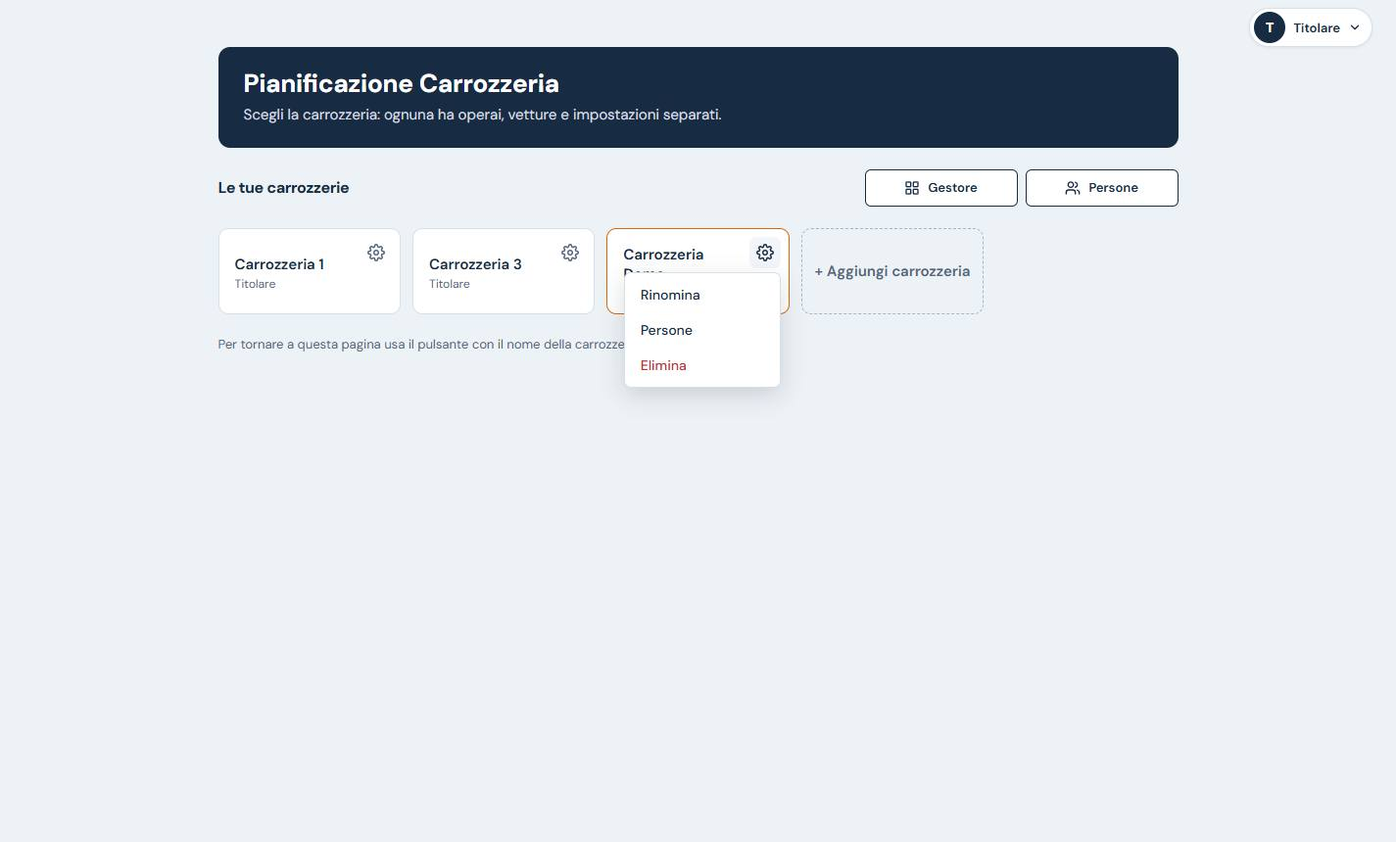
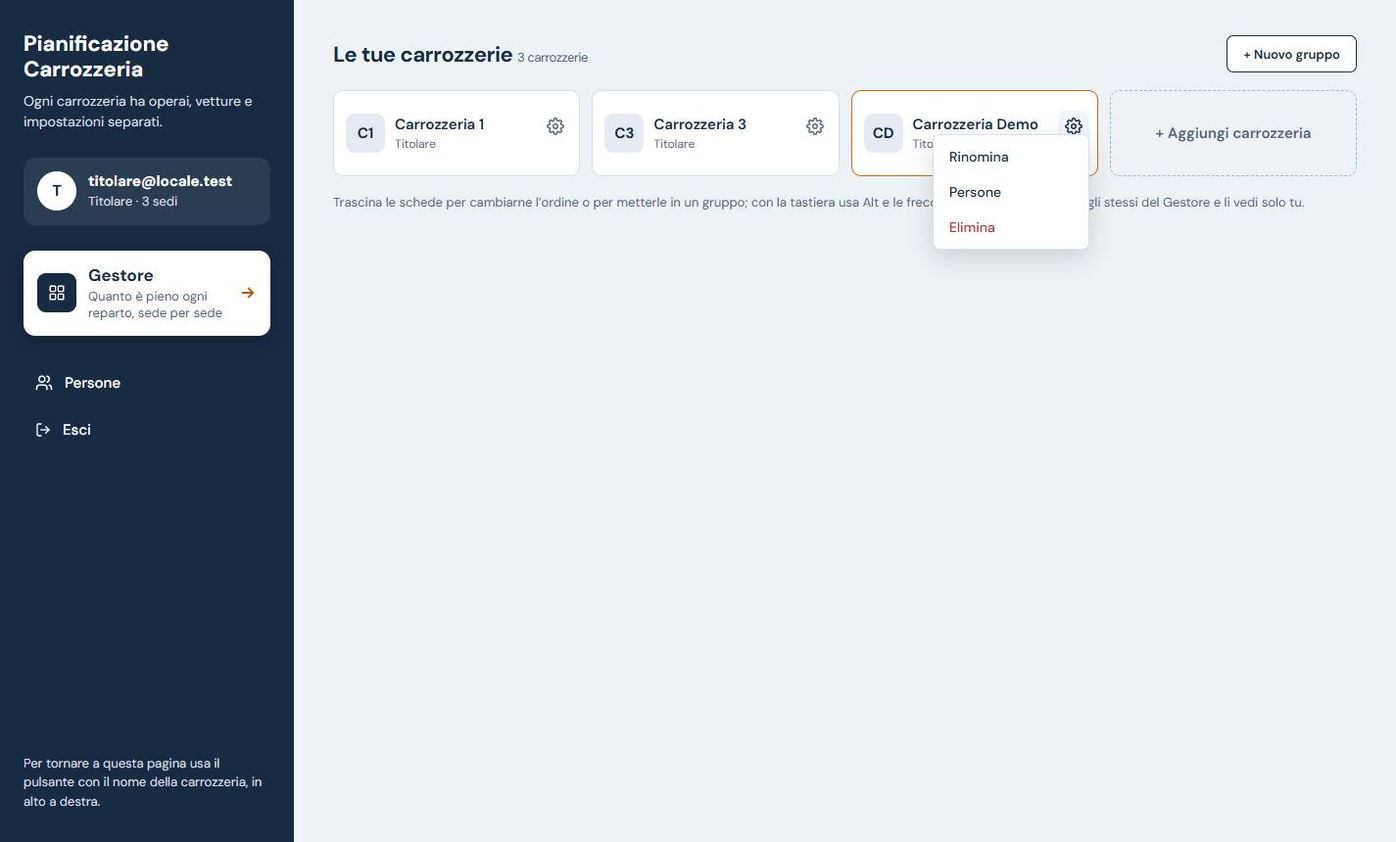
Planner 0.29.0: pagina delle carrozzerie con colonna laterale, gruppi e schede da trascinare

diff --git a/planner/accesso.js b/planner/accesso.js
@@ -34,7 +34,7 @@ const Accesso = (() => {
     gestore: 'supervisiona dal Gestore e scrive i messaggi; nella carrozzeria vede tutto, importi compresi, senza modificare'
   };
   const PW_MIN = 10;
-  const S = { utente: null, voci: [], menu: null, modifica: null, msg: '', ok: '', admin: false, nome: '', simula: '' };
+  const S = { utente: null, voci: [], menu: null, modifica: null, msg: '', ok: '', admin: false, nome: '', simula: '', gruppi: [], ordine: [], modGruppo: null, nomeGruppo: undefined, eliminate: false, annuncio: '' };
   // simulazione (2026-11-06): l'amministratore vede il planner come un altro ruolo, senza salvare; vale per la scheda del browser
   const SIMULA = 'zencar-simula';
   const simula = v => { try { if (v) sessionStorage.setItem(SIMULA, v); else sessionStorage.removeItem(SIMULA); } catch (e) { } location.reload(); };
@@ -74,6 +74,9 @@ const Accesso = (() => {
       box.addEventListener('focusout', ev => { if (ev.target.closest('[data-gs-info]')) nascondiInfo(); });
       box.addEventListener('scroll', () => nascondiInfo(), true); box.addEventListener('submit', ev => { ev.preventDefault(); if (ev.target.dataset.modoForm) inviaAccesso(ev.target); else if (ev.target.dataset.gs) inviaGestore(ev.target); });
       box.addEventListener('keydown', tasti);
+      // pagina delle carrozzerie: schede e gruppi si trascinano (2026-11-11)
+      box.addEventListener('dragstart', trascinaInizio); box.addEventListener('dragover', trascinaSopra);
+      box.addEventListener('drop', trascinaLascia); box.addEventListener('dragend', trascinaFine);
       // Gestore: dati riletti ogni 10 minuti mentre è aperto (e al ritorno su una scheda rimasta nascosta)
       const gestoreVecchio = () => box && box.querySelector('.gestore .gs-head') && !box.querySelector('.gs-form') && Date.now() - lettoGestore >= ogniGestore();
       setInterval(() => { if (document.visibilityState === 'visible' && gestoreVecchio()) apriGestore({}, true); }, 30 * 1000);
@@ -86,7 +89,7 @@ const Accesso = (() => {
   }
   /** Nome della zona per il lettore di schermo, secondo quello che mostra. */
   // dopo ogni ridisegno della pagina (che ne sostituisce il contenuto) il menu dell'account torna al suo posto
-  const vista = nome => { pagina().setAttribute('aria-label', nome); if (nome !== 'Accesso') queueMicrotask(() => mostraConto()); return box; };
+  const vista = nome => { pagina().setAttribute('aria-label', nome); box.classList.toggle('elenco', nome === 'Scegli la carrozzeria'); if (nome !== 'Accesso') queueMicrotask(() => mostraConto()); return box; };
 
   /* Gestore: riquadro con le ore della cella (blu notte come i suggerimenti «i»); il testo lo prepara il server */
   let info = null, infoDi = null;
@@ -176,9 +179,13 @@ const Accesso = (() => {
 
   /* ---------------------------------------------- elenco delle carrozzerie */
   async function caricaElenco() {
-    const [{ data, error }, adm, nome] = await Promise.all([sb.from('membri').select('ruolo, carrozzerie(id, numero, nome, eliminata_il)').eq('user_id', S.utente.id), sb.rpc('sono_amministratore'), sb.rpc('mio_nome')]);
+    const [{ data, error }, adm, nome, gruppi, ordine] = await Promise.all([sb.from('membri').select('ruolo, carrozzerie(id, numero, nome, eliminata_il)').eq('user_id', S.utente.id), sb.rpc('sono_amministratore'), sb.rpc('mio_nome'),
+      sb.from('gruppi_gestore').select('id, nome, carrozzerie').order('posizione').order('creato_il'), sb.from('ordine_carrozzerie').select('carrozzerie').maybeSingle()]);
     if (error) throw error;
     S.admin = adm.data === true; S.nome = nome.data || '';
+    // disposizione della pagina (2026-11-11): se non si legge, la pagina resta nell'ordine dei numeri e senza gruppi
+    S.gruppi = gruppi.error ? [] : (gruppi.data || []).map(g => ({ id: g.id, nome: g.nome, carrozzerie: g.carrozzerie || [] }));
+    S.ordine = ordine.error || !ordine.data ? [] : ordine.data.carrozzerie || [];
     try { const r = sessionStorage.getItem(SIMULA) || ''; S.simula = S.admin && RUOLI[r] ? r : ''; } catch (e) { S.simula = ''; }
     // consumi del piano (2026-11-10): solo l'amministratore; se la lettura non riesce la pagina resta com'è
     S.consumi = null;
@@ -199,16 +206,139 @@ const Accesso = (() => {
   }
   const GEAR = '<svg width="18" height="18" viewBox="0 0 24 24" fill="none" stroke="currentColor" stroke-width="2" stroke-linecap="round" stroke-linejoin="round" aria-hidden="true"><circle cx="12" cy="12" r="3"/><path d="M19.4 15a1.65 1.65 0 0 0 .33 1.82l.06.06a2 2 0 1 1-2.83 2.83l-.06-.06a1.65 1.65 0 0 0-1.82-.33 1.65 1.65 0 0 0-1 1.51V21a2 2 0 1 1-4 0v-.09A1.65 1.65 0 0 0 9 19.4a1.65 1.65 0 0 0-1.82.33l-.06.06a2 2 0 1 1-2.83-2.83l.06-.06A1.65 1.65 0 0 0 4.68 15a1.65 1.65 0 0 0-1.51-1H3a2 2 0 1 1 0-4h.09A1.65 1.65 0 0 0 4.6 9a1.65 1.65 0 0 0-.33-1.82l-.06-.06a2 2 0 1 1 2.83-2.83l.06.06A1.65 1.65 0 0 0 9 4.68a1.65 1.65 0 0 0 1-1.51V3a2 2 0 1 1 4 0v.09a1.65 1.65 0 0 0 1 1.51 1.65 1.65 0 0 0 1.82-.33l.06-.06a2 2 0 1 1 2.83 2.83l-.06.06A1.65 1.65 0 0 0 19.4 9a1.65 1.65 0 0 0 1.51 1H21a2 2 0 1 1 0 4h-.09a1.65 1.65 0 0 0-1.51 1z"/></svg>';
 
-  // strumenti del gruppo di sedi (2026-11-05): stessa misura, bordo blu notte, icona disegnata
+  // icone della colonna laterale e dei gruppi (strumenti dal 2026-11-05, colonna dal 2026-11-11)
   const ICONA = {
-    gestore: '<svg width="16" height="16" viewBox="0 0 24 24" fill="none" stroke="currentColor" stroke-width="2" stroke-linecap="round" stroke-linejoin="round" aria-hidden="true"><rect x="3" y="3" width="7" height="7" rx="1"/><rect x="14" y="3" width="7" height="7" rx="1"/><rect x="3" y="14" width="7" height="7" rx="1"/><rect x="14" y="14" width="7" height="7" rx="1"/></svg>',
-    persone: '<svg width="16" height="16" viewBox="0 0 24 24" fill="none" stroke="currentColor" stroke-width="2" stroke-linecap="round" stroke-linejoin="round" aria-hidden="true"><path d="M16 21v-2a4 4 0 0 0-4-4H6a4 4 0 0 0-4 4v2"/><circle cx="9" cy="7" r="4"/><path d="M22 21v-2a4 4 0 0 0-3-3.87"/><path d="M16 3.13a4 4 0 0 1 0 7.75"/></svg>'
+    gestore: '<svg width="18" height="18" viewBox="0 0 24 24" fill="none" stroke="currentColor" stroke-width="2" stroke-linecap="round" stroke-linejoin="round" aria-hidden="true"><rect x="3" y="3" width="7" height="7" rx="1"/><rect x="14" y="3" width="7" height="7" rx="1"/><rect x="3" y="14" width="7" height="7" rx="1"/><rect x="14" y="14" width="7" height="7" rx="1"/></svg>',
+    persone: '<svg width="18" height="18" viewBox="0 0 24 24" fill="none" stroke="currentColor" stroke-width="2" stroke-linecap="round" stroke-linejoin="round" aria-hidden="true"><path d="M16 21v-2a4 4 0 0 0-4-4H6a4 4 0 0 0-4 4v2"/><circle cx="9" cy="7" r="4"/><path d="M22 21v-2a4 4 0 0 0-3-3.87"/><path d="M16 3.13a4 4 0 0 1 0 7.75"/></svg>',
+    cestino: '<svg width="18" height="18" viewBox="0 0 24 24" fill="none" stroke="currentColor" stroke-width="2" stroke-linecap="round" stroke-linejoin="round" aria-hidden="true"><path d="M3 6h18M8 6V4h8v2M6 6l1 14h10l1-14"/></svg>',
+    maniglia: '<svg width="16" height="16" viewBox="0 0 24 24" fill="currentColor" aria-hidden="true"><circle cx="9" cy="6" r="1.6"/><circle cx="15" cy="6" r="1.6"/><circle cx="9" cy="12" r="1.6"/><circle cx="15" cy="12" r="1.6"/><circle cx="9" cy="18" r="1.6"/><circle cx="15" cy="18" r="1.6"/></svg>'
   };
-  function strumenti() {
-    const b = [];
-    if (vedeGestore()) b.push(`<button type="button" class="lstr" data-gestore="1">${ICONA.gestore}Gestore</button>`);
+  // iniziali della carrozzeria nel quadratino della scheda: «Novi Ligure» → NL, «Carrozzeria 1» → C1
+  const sigla = nome => { const p = String(nome).trim().split(/\s+/).filter(Boolean); return (p.length > 1 ? p[0][0] + p[1][0] : (p[0] || '?').slice(0, 2)).toUpperCase(); };
+  const quante = n => n + (n === 1 ? ' carrozzeria' : ' carrozzerie');
+  /** Colonna blu notte a sinistra (proposta C scelta dal titolare il 2026-11-11): chi è entrato, strumenti, Esci. */
+  function laterale(gone) {
+    const email = S.utente.email || '', chi = chiSono(), b = [];
+    // il Gestore in evidenza (proposta F, 2026-11-11): riquadro bianco sul fondo blu notte, con una riga di spiegazione
+    const gestore = vedeGestore() ? `<button type="button" class="lges" data-gestore="1"><span class="lges-i">${ICONA.gestore}</span><b>Gestore</b>
+      <svg class="lges-f" width="18" height="18" viewBox="0 0 24 24" fill="none" stroke="currentColor" stroke-width="2.4" stroke-linecap="round" stroke-linejoin="round" aria-hidden="true"><path d="M5 12h14M13 6l6 6-6 6"/></svg>
+      <span class="lges-s">Quanto è pieno ogni reparto, sede per sede</span></button>` : '';
     if (sediMie().length) b.push(`<button type="button" class="lstr" data-persone="1">${ICONA.persone}Persone</button>`);
-    return b.length ? `<span class="lbtn">${b.join('')}</span>` : '';
+    if (gone.length) b.push(`<button type="button" class="lstr" data-eliminate="1" aria-expanded="${!!S.eliminate}">${ICONA.cestino}Carrozzerie eliminate (${gone.length})</button>`);
+    b.push(`<button type="button" class="lstr" data-esci="1">${ESCI}Esci</button>`);
+    return `<aside class="lside" aria-label="Account e strumenti">
+      <div class="lside-tit"><h1>Pianificazione Carrozzeria</h1><p>Ogni carrozzeria ha operai, vetture e impostazioni separati.</p></div>
+      <div class="lside-chi" title="${esc(email)}"><span class="conto-ini grande" aria-hidden="true">${esc((S.nome || email).charAt(0).toUpperCase())}</span>
+        <span><b>${esc(S.nome || email)}</b><span>${esc(chi.ruolo)} · ${esc(chi.dove)}</span></span></div>
+      ${gestore}<nav class="lside-nav" aria-label="Strumenti">${b.join('')}</nav>
+      <p class="lside-nota">Per tornare a questa pagina usa il pulsante con il nome della carrozzeria, in alto a destra.</p></aside>`;
+  }
+
+  /* ---------------------------------------------- disposizione (2026-11-11): l'utente ordina le carrozzerie trascinandole e le
+     raccoglie in gruppi, gli stessi del Gestore. Si salva per utente (salva_disposizione); le altre persone non vedono cambi. */
+  /** Gruppi e carrozzerie senza gruppo, nell'ordine scelto. Ogni carrozzeria compare una sola volta. */
+  function disposizione() {
+    const vivi = new Map(vive().map(s => [s.id, s])), usate = new Set();
+    const gruppi = S.gruppi.map(g => ({ id: g.id, nome: g.nome, voci: g.carrozzerie.filter(id => vivi.has(id) && !usate.has(id) && usate.add(id)).map(id => vivi.get(id)) }));
+    const pos = id => { const i = S.ordine.indexOf(id); return i < 0 ? 1e9 : i; };
+    const sciolte = vive().filter(s => !usate.has(s.id)).map((s, i) => [s, i]).sort((a, b) => pos(a[0].id) - pos(b[0].id) || a[1] - b[1]).map(x => x[0]);
+    return { gruppi, sciolte };
+  }
+  // le liste della pagina, dall'alto: un elenco di carrozzerie per gruppo e per ultimo quelle senza gruppo (id '')
+  const liste = () => { const d = disposizione(); return [...d.gruppi.map(g => ({ id: g.id, ids: g.voci.map(s => s.id) })), { id: '', ids: d.sciolte.map(s => s.id) }]; };
+  /** Dopo uno spostamento la pagina cambia subito; il database si aggiorna in un solo passaggio. */
+  function salvaDisposizione(L, fuoco, annuncio) {
+    const vivi = new Set(vive().map(s => s.id));
+    // le carrozzerie eliminate restano nel loro gruppo: se si ripristinano tornano al loro posto
+    S.gruppi = L.filter(l => l.id).map(l => { const g = S.gruppi.find(x => x.id === l.id); return g && Object.assign(g, { carrozzerie: l.ids.concat(g.carrozzerie.filter(id => !vivi.has(id))) }); }).filter(Boolean);
+    S.ordine = L.find(l => !l.id).ids;
+    S.msg = ''; S.ok = ''; S.annuncio = annuncio || '';
+    mostraElenco(fuoco);
+    sb.rpc('salva_disposizione', { gruppi: S.gruppi.map(g => ({ id: g.id, carrozzerie: g.carrozzerie })), sciolte: S.ordine })
+      .then(({ error }) => { if (error) throw error; })
+      .catch(async e => { console.error('[carrozzerie] disposizione', e); await aggiorna(); S.msg = 'Spostamento non salvato: riprova.'; mostraElenco(); });
+  }
+  const nomeDi = id => (voce(id) || {}).nome || '';
+  const nomeLista = id => id ? 'nel gruppo ' + ((S.gruppi.find(g => g.id === id) || {}).nome || '') : 'tra le carrozzerie senza gruppo';
+  /** Mette la carrozzeria nella lista del gruppo, prima o dopo la scheda di riferimento (senza riferimento: in fondo). */
+  function spostaCarrozzeria(id, gruppo, accanto, dopo) {
+    const L = liste(); for (const l of L) l.ids = l.ids.filter(x => x !== id);
+    const l = L.find(x => x.id === gruppo); if (!l) return;
+    const r = accanto ? l.ids.indexOf(accanto) : -1;
+    l.ids.splice(r < 0 ? l.ids.length : r + (dopo ? 1 : 0), 0, id);
+    salvaDisposizione(L, `[data-carr="${id}"] .lopen`, nomeDi(id) + ' spostata ' + nomeLista(gruppo) + '.');
+  }
+  /** Con la tastiera (Alt + frecce sul nome): ±1 un posto avanti o indietro, ±2 nel gruppo dopo o prima. */
+  function spostaConTasti(id, passo) {
+    const L = liste(), li = L.findIndex(l => l.ids.includes(id)); if (li < 0) return;
+    const l = L[li], i = l.ids.indexOf(id); l.ids.splice(i, 1);
+    if (passo === -1 && i > 0) l.ids.splice(i - 1, 0, id);
+    else if (passo === 1 && i < l.ids.length) l.ids.splice(i + 1, 0, id);
+    else if (passo < 0 && li > 0) L[li - 1].ids.push(id);
+    else if (passo > 0 && li < L.length - 1) L[li + 1].ids.unshift(id);
+    else return;
+    const dove = L.find(x => x.ids.includes(id));
+    salvaDisposizione(L, `[data-carr="${id}"] .lopen`, nomeDi(id) + ': posto ' + (dove.ids.indexOf(id) + 1) + ' di ' + dove.ids.length + ' ' + nomeLista(dove.id) + '.');
+  }
+  /** Sposta un gruppo prima o dopo un altro; le carrozzerie senza gruppo restano sempre in fondo. */
+  function spostaGruppo(id, accanto, dopo) {
+    const L = liste(), g = L.find(l => l.id === id); if (!g) return;
+    const altriGruppi = L.filter(l => l !== g), sciolte = altriGruppi.pop();
+    let i = altriGruppi.findIndex(l => l.id === accanto); i = i < 0 ? altriGruppi.length : i + (dopo ? 1 : 0);
+    altriGruppi.splice(i, 0, g);
+    salvaDisposizione([...altriGruppi, sciolte], `[data-gmuovi="${id}"]`, 'Gruppo spostato: posto ' + (i + 1) + ' di ' + altriGruppi.length + '.');
+  }
+
+  // trascinamento con il mouse: presa = { tipo: 'c' (carrozzeria) | 'g' (gruppo), id }
+  let presa = null;
+  const SEGNI = ['drop-prima', 'drop-dopo', 'drop-dentro', 'drop-sopra', 'drop-sotto'];
+  function segno(el, cls) {
+    for (const x of box.querySelectorAll('.' + SEGNI.join(',.'))) if (x !== el) x.classList.remove(...SEGNI);
+    if (el && !el.classList.contains(cls)) { el.classList.remove(...SEGNI); el.classList.add(cls); }
+  }
+  /** Dove cadrebbe ciò che si trascina: { el (da segnare), cls, gruppo, accanto }; el null = sopra se stesso, nessun effetto. */
+  function bersaglio(ev) {
+    const t = ev.target && ev.target.closest ? ev.target : ev.target && ev.target.parentElement; if (!presa || !t) return null;
+    if (presa.tipo === 'c') {
+      const c = t.closest('.lcardi[data-carr]');
+      if (c && c.dataset.carr === presa.id) return { el: null };
+      if (c) { const r = c.getBoundingClientRect(); return { el: c, cls: ev.clientX > r.left + r.width / 2 ? 'drop-dopo' : 'drop-prima', gruppo: c.closest('[data-zona]').dataset.zona, accanto: c.dataset.carr }; }
+      const z = t.closest('.lgruppo[data-gruppo]');
+      return z ? { el: z.querySelector('[data-zona]'), cls: 'drop-dentro', gruppo: z.dataset.gruppo, accanto: '' } : null;
+    }
+    const s = t.closest('.lgruppo[data-gruppo]:not(.sciolte)'); if (!s) return null;
+    if (s.dataset.gruppo === presa.id) return { el: null };
+    const r = s.getBoundingClientRect(); return { el: s, cls: ev.clientY > r.top + r.height / 2 ? 'drop-sotto' : 'drop-sopra', accanto: s.dataset.gruppo };
+  }
+  function trascinaInizio(ev) {
+    const g = ev.target.closest && ev.target.closest('[data-gtrascina]'), c = !g && ev.target.closest && ev.target.closest('.lcardi[data-carr][draggable="true"]');
+    if (!g && !c) return;
+    presa = g ? { tipo: 'g', id: g.dataset.gtrascina } : { tipo: 'c', id: c.dataset.carr };
+    ev.dataTransfer.effectAllowed = 'move'; try { ev.dataTransfer.setData('text/plain', g ? 'gruppo' : nomeDi(presa.id)); } catch (e) { }
+    const el = g ? g.closest('.lgruppo') : c; requestAnimationFrame(() => el.classList.add('presa'));
+  }
+  function trascinaSopra(ev) { const b = bersaglio(ev); if (!b) return presa && segno(null); ev.preventDefault(); ev.dataTransfer.dropEffect = 'move'; segno(b.el, b.cls); }
+  function trascinaLascia(ev) {
+    const b = bersaglio(ev), p = presa; if (!b) return;
+    ev.preventDefault(); trascinaFine();
+    if (!b.el) return;
+    if (p.tipo === 'c') spostaCarrozzeria(p.id, b.gruppo, b.accanto, b.cls === 'drop-dopo');
+    else spostaGruppo(p.id, b.accanto, b.cls === 'drop-sotto');
+  }
+  function trascinaFine() { presa = null; if (!box) return; segno(null); for (const x of box.querySelectorAll('.presa')) x.classList.remove('presa'); }
+
+  /** Nuovo gruppo o nome cambiato: lo stesso salvataggio del Gestore (salva_gruppo_gestore). */
+  async function salvaGruppo(id) {
+    const inp = box.querySelector(`[data-gedit="${id}"]`), nome = (inp ? inp.value : '').trim().replace(/\s+/g, ' ');
+    S.nomeGruppo = inp ? inp.value : '';
+    const err = !nome ? 'Scrivi il nome del gruppo.' : nome.length > 60 ? 'Il nome può avere al massimo 60 caratteri.'
+      : S.gruppi.some(g => g.id !== id && g.nome.toLowerCase() === nome.toLowerCase()) ? 'Hai già un gruppo con questo nome.' : '';
+    if (err) { S.msg = err; S.ok = ''; return mostraElenco(`[data-gedit="${id}"]`); }
+    const g = S.gruppi.find(x => x.id === id);
+    try {
+      const { error } = await sb.rpc('salva_gruppo_gestore', { g: g ? g.id : null, nome, scelte: g ? g.carrozzerie : [] }); if (error) throw error;
+      await aggiorna('', g ? `[data-gmuovi="${g.id}"]` : '');
+    } catch (e) { S.msg = testoErrore(e); S.ok = ''; mostraElenco(`[data-gedit="${id}"]`); }
   }
   /** Consumi del mese rispetto al piano gratuito di Supabase: numeri, percentuali e avviso arrivano già pronti dal database. */
   function consumiHtml() {
@@ -226,35 +356,51 @@ const Accesso = (() => {
     const last = ultima();
     const modifica = (id, nome) => `<div class="lcardi editing"><input type="text" maxlength="60" value="${esc(nome)}" data-edit="${id}" aria-label="Nome della carrozzeria">
       <div class="lact"><button type="button" class="pri" data-save="${id}">Salva</button><button type="button" data-cancel="1">Annulla</button></div></div>`;
+    const spostabili = vive().length > 1;
     const card = s => {
       if (S.modifica === s.id) return modifica(s.id, s.nome);
       const menu = S.menu === s.id ? `<div class="lmenu" role="menu"><button type="button" role="menuitem" data-ren="${s.id}">Rinomina</button>
         <button type="button" role="menuitem" data-utenti="${s.id}">Persone</button><button type="button" role="menuitem" class="del" data-del="${s.id}">Elimina</button></div>` : '';
-      return `<div class="lcardi${s.id === last ? ' last' : ''}"><button type="button" class="lopen" data-sede="${s.id}" title="${esc(s.nome)}"><span class="lnome">${esc(s.nome)}</span><small>${esc(S.admin ? 'Amministratore' : RUOLI[s.ruolo])}${s.id === last ? ' · Ultima usata' : ''}</small></button>
+      return `<div class="lcardi${s.id === last ? ' last' : ''}" data-carr="${s.id}" draggable="${spostabili}"><button type="button" class="lopen" data-sede="${s.id}" title="${esc(s.nome)}"${spostabili ? ' aria-describedby="lcome"' : ''}>
+        <span class="lsigla" aria-hidden="true">${esc(sigla(s.nome))}</span><span class="ltesto"><span class="lnome">${esc(s.nome)}</span><small>${esc(S.admin ? 'Amministratore' : RUOLI[s.ruolo])}${s.id === last ? ' · Ultima usata' : ''}</small></span></button>
         ${titolareDi(s) ? `<button type="button" class="lgear" data-menu="${s.id}" aria-haspopup="menu" aria-expanded="${S.menu === s.id}" aria-label="Impostazioni di ${esc(s.nome)}" title="Impostazioni">${GEAR}</button>${menu}` : ''}</div>`;
     };
-    const puoAggiungere = piuSedi();
-    const nuova = S.modifica === 'nuova' ? modifica('nuova', 'Carrozzeria ' + (vive().length + 1)) : (puoAggiungere ? '<button type="button" class="ladd" data-add="1">+ Aggiungi carrozzeria</button>' : '');
-    const gone = S.voci.filter(s => s.eliminata_il && titolareDi(s));
-    return `<div class="lcard"><div class="lhead"><h1>Pianificazione Carrozzeria</h1><p>Scegli la carrozzeria: ognuna ha operai, vetture e impostazioni separati.</p></div>
-      <div class="lbar"><h2 class="ltit">Le tue carrozzerie</h2>${strumenti()}</div>
-      ${S.msg ? `<p class="lerr" role="alert">${esc(S.msg)}</p>` : ''}${S.ok ? `<p class="lok" role="status">${esc(S.ok)}</p>` : ''}${consumiHtml()}
-      ${vive().length || nuova ? `<div class="lgrid">${vive().map(card).join('')}${nuova}</div>`
+    const nomeGruppo = (id, nome) => `<header class="lgh editing"><input type="text" maxlength="60" value="${esc(S.nomeGruppo ?? nome)}" data-gedit="${id}" aria-label="Nome del gruppo" placeholder="Per esempio: Zona nord">
+      <button type="button" class="pri" data-gsalva="${id}">Salva</button><button type="button" data-gannulla="1">Annulla</button></header>`;
+    const gruppo = (g, voci) => `<section class="lgruppo" data-gruppo="${g.id}" aria-label="Gruppo ${esc(g.nome)}">
+      ${S.modGruppo === g.id ? nomeGruppo(g.id, g.nome) : `<header class="lgh" draggable="true" data-gtrascina="${g.id}"><button type="button" class="lmaniglia" data-gmuovi="${g.id}" aria-label="Sposta il gruppo ${esc(g.nome)}" aria-describedby="lcome" title="Trascina per spostare il gruppo">${ICONA.maniglia}</button>
+        <h3>${esc(g.nome)}</h3><span class="lconta">${quante(voci.length)}</span>
+        <span class="lgaz"><button type="button" data-grin="${g.id}">Rinomina</button><button type="button" class="del" data-gdel="${g.id}">Elimina il gruppo</button></span></header>`}
+      <div class="lgrid" data-zona="${g.id}">${voci.map(card).join('') || '<p class="lvuoto">Trascina qui le carrozzerie del gruppo.</p>'}</div></section>`;
+    const nuova = S.modifica === 'nuova' ? modifica('nuova', 'Carrozzeria ' + (vive().length + 1)) : (piuSedi() ? '<button type="button" class="ladd" data-add="1">+ Aggiungi carrozzeria</button>' : '');
+    const gone = S.voci.filter(s => s.eliminata_il && titolareDi(s)), d = disposizione();
+    const sciolte = `<section class="lgruppo sciolte" data-gruppo="" aria-label="${d.gruppi.length ? 'Carrozzerie senza gruppo' : 'Carrozzerie'}">
+      ${d.gruppi.length ? `<header class="lgh"><h3>Senza gruppo</h3><span class="lconta">${quante(d.sciolte.length)}</span></header>` : ''}
+      <div class="lgrid" data-zona="">${d.sciolte.map(card).join('')}${d.gruppi.length && !d.sciolte.length ? '<p class="lvuoto">Trascina qui una carrozzeria per toglierla dal suo gruppo.</p>' : ''}${nuova}</div></section>`;
+    const nuovoGruppo = S.modGruppo === 'nuovo' ? `<section class="lgruppo" data-gruppo="nuovo" aria-label="Nuovo gruppo">${nomeGruppo('nuovo', '')}<p class="lvuoto">Dopo il salvataggio trascina qui le carrozzerie del gruppo.</p></section>` : '';
+    return `<div class="lpag">${laterale(gone)}<main class="lmain">
+      <div class="lbar"><h2 class="ltit">Le tue carrozzerie <span class="lconta">${quante(vive().length)}</span></h2>
+        ${spostabili ? '<button type="button" class="lnuovo" data-gnuovo="1">+ Nuovo gruppo</button>' : ''}</div>
+      ${S.msg ? `<p class="lerr" role="alert">${esc(S.msg)}</p>` : ''}${S.ok ? `<p class="lok" role="status">${esc(S.ok)}</p>` : ''}<p class="lnasc" role="status">${esc(S.annuncio || '')}</p>${consumiHtml()}
+      ${gone.length && S.eliminate ? `<section class="lgone" aria-labelledby="lgoneTit"><h3 id="lgoneTit" tabindex="-1">Carrozzerie eliminate (${gone.length})</h3><p class="lnote">Restano recuperabili finché non le elimini definitivamente.</p>
+        ${gone.map(s => `<div class="lgrow"><span>${esc(s.nome)}</span><button type="button" data-restore="${s.id}">Ripristina</button><button type="button" class="del" data-wipe="${s.id}">Elimina definitivamente</button></div>`).join('')}</section>` : ''}
+      ${vive().length || nuova ? d.gruppi.map(g => gruppo(g, g.voci)).join('') + nuovoGruppo + sciolte
         : '<p class="lnote">Non hai ancora accesso a nessuna carrozzeria: chiedi al titolare di aggiungerti.</p>'}
-      ${gone.length ? `<details class="lgone"><summary>Carrozzerie eliminate (${gone.length})</summary><p class="lnote">Restano recuperabili finché non le elimini definitivamente.</p>
-        ${gone.map(s => `<div class="lgrow"><span>${esc(s.nome)}</span><button type="button" data-restore="${s.id}">Ripristina</button><button type="button" class="del" data-wipe="${s.id}">Elimina definitivamente</button></div>`).join('')}</details>` : ''}
-      <p class="lnote">Per tornare a questa pagina usa il pulsante con il nome della carrozzeria, in alto a destra.</p></div>`;
+      ${spostabili ? '<p class="lnote" id="lcome">Trascina le schede per cambiarne l’ordine o per metterle in un gruppo; con la tastiera usa Alt e le frecce sul nome. I gruppi sono gli stessi del Gestore e li vedi solo tu.</p>' : ''}
+      </main></div>`;
   }
   function mostraElenco(focusSel) {
     nascondiInfo();
+    const y = box ? box.scrollTop : 0;
     vista('Scegli la carrozzeria').innerHTML = landingHtml();
-    const f = (focusSel && box.querySelector(focusSel)) || box.querySelector('[data-edit]') || box.querySelector('.last .lopen') || box.querySelector('.lopen');
-    if (f) { f.focus(); if (f.matches('input')) f.select(); }
+    box.scrollTop = y;
+    const f = (focusSel && box.querySelector(focusSel)) || box.querySelector('[data-edit], [data-gedit]') || box.querySelector('.last .lopen') || box.querySelector('.lopen');
+    if (f) { f.focus({ preventScroll: true }); if (focusSel) f.scrollIntoView({ block: 'nearest' }); if (f.matches('input')) f.select(); }
   }
-  async function aggiorna(ok = '') {
-    S.menu = null; S.modifica = null; S.ok = ok;
+  async function aggiorna(ok = '', fuoco = '') {
+    S.menu = null; S.modifica = null; S.modGruppo = null; S.nomeGruppo = undefined; S.annuncio = ''; S.ok = ok;
     try { await caricaElenco(); S.msg = ''; } catch (e) { S.msg = testoErrore(e); }
-    mostraElenco();
+    mostraElenco(fuoco);
   }
   async function salvaNome(id) {
     const inp = box.querySelector(`[data-edit="${id}"]`);
@@ -279,7 +425,14 @@ const Accesso = (() => {
     if (t.dataset.gs) { if (t.dataset.gsConferma && !confirm(t.dataset.gsConferma)) return; return apriGestore({ azione: t.dataset.gs, id: t.dataset.gsId || '' }); }
     if (t.dataset.gsChiudi) return mostraElenco('[data-gestore]');
     if (t.dataset.gsApri) { const g = t.closest('[data-gs-gruppo]'), parte = t.dataset.gsApri; if (g && aperti[parte]) { aperti[parte][g.dataset.gsGruppo] = !g.classList.contains('apri-' + parte); salvaAperti(); mostraAperti(); } return; }
-    S.msg = ''; S.ok = '';
+    S.msg = ''; S.ok = ''; S.annuncio = '';
+    if (t.dataset.esci) { try { sessionStorage.removeItem(SIMULA); } catch (e) { } try { history.replaceState(null, '', location.pathname + location.search); } catch (e) { } await sb.auth.signOut(); return location.reload(); }
+    if (t.dataset.eliminate) { S.eliminate = !S.eliminate; return mostraElenco(S.eliminate ? '#lgoneTit' : '[data-eliminate]'); }
+    if (t.dataset.gnuovo) { S.modGruppo = 'nuovo'; S.nomeGruppo = undefined; return mostraElenco('[data-gedit]'); }
+    if (t.dataset.grin) { S.modGruppo = t.dataset.grin; S.nomeGruppo = undefined; return mostraElenco('[data-gedit]'); }
+    if (t.dataset.gannulla) { const id = S.modGruppo; S.modGruppo = null; S.nomeGruppo = undefined; return mostraElenco(id && id !== 'nuovo' ? `[data-gmuovi="${id}"]` : '[data-gnuovo]'); }
+    if (t.dataset.gsalva) return salvaGruppo(t.dataset.gsalva);
+    if (t.dataset.gmuovi) return; // la maniglia si trascina, o si sposta con Alt e le frecce
     if (t.dataset.menu) { const id = t.dataset.menu; S.menu = S.menu === id ? null : id; return mostraElenco(S.menu ? `.lmenu [data-ren="${id}"]` : `[data-menu="${id}"]`); }
     S.menu = null;
     if (t.dataset.sede) return apri(t.dataset.sede);
@@ -290,6 +443,12 @@ const Accesso = (() => {
     if (t.dataset.utenti) return apriPersone(t.dataset.utenti); // dall'ingranaggio: la finestra Persone filtrata su quella sede
     if (t.dataset.persone) return apriPersone();
     try {
+      if (t.dataset.gdel) {
+        const g = S.gruppi.find(x => x.id === t.dataset.gdel);
+        if (!g || !confirm('Eliminare il gruppo «' + g.nome + '»? Le carrozzerie restano: passano tra quelle senza gruppo. Il gruppo sparisce anche dal Gestore.')) return mostraElenco(`[data-gdel="${t.dataset.gdel}"]`);
+        const { error } = await sb.from('gruppi_gestore').delete().eq('id', g.id); if (error) throw error;
+        return aggiorna('', '[data-gnuovo]');
+      }
       if (t.dataset.del) {
         const s = voce(t.dataset.del);
         if (!confirm('Eliminare ' + s.nome + '? Sparisce dall’elenco, ma i suoi dati restano recuperabili da «Carrozzerie eliminate».')) return mostraElenco();
@@ -314,6 +473,17 @@ const Accesso = (() => {
     if (ev.target.matches && ev.target.matches('[data-edit]')) {
       if (ev.key === 'Enter') { ev.preventDefault(); salvaNome(ev.target.dataset.edit); }
       if (ev.key === 'Escape') { ev.preventDefault(); S.modifica = null; mostraElenco(); }
+    } else if (ev.target.matches && ev.target.matches('[data-gedit]')) {
+      if (ev.key === 'Enter') { ev.preventDefault(); salvaGruppo(ev.target.dataset.gedit); }
+      if (ev.key === 'Escape') { ev.preventDefault(); box.querySelector('[data-gannulla]').click(); }
+    } else if (ev.altKey && /^Arrow(Left|Right|Up|Down)$/.test(ev.key) && ev.target.matches && ev.target.matches('.lopen[aria-describedby], [data-gmuovi]')) {
+      // spostamenti con la tastiera: sul nome della carrozzeria ←→ un posto, ↑↓ nel gruppo prima o dopo; sulla maniglia ↑↓ il gruppo
+      ev.preventDefault();
+      const avanti = ev.key === 'ArrowRight' || ev.key === 'ArrowDown', g = ev.target.dataset.gmuovi;
+      if (g) {
+        const gruppiPag = liste().filter(l => l.id), i = gruppiPag.findIndex(l => l.id === g), j = i + (avanti ? 1 : -1);
+        if (i >= 0 && j >= 0 && j < gruppiPag.length) spostaGruppo(g, gruppiPag[j].id, avanti);
+      } else spostaConTasti(ev.target.dataset.sede, (avanti ? 1 : -1) * (/Up|Down/.test(ev.key) ? 2 : 1));
     } else if (ev.key === 'Escape' && S.menu) { const id = S.menu; S.menu = null; mostraElenco(`[data-menu="${id}"]`); }
     ev.stopPropagation(); // le scorciatoie del planning restano spente
   }

diff --git a/planner/accesso.css b/planner/accesso.css
@@ -430,3 +430,85 @@ body.con-planner .conto-btn.simula .conto-torna, body.con-planner .conto-btn.sim
 /* tabellone dell'officina (2026-11-11): la parte disegnata dal server copre tutto lo schermo */
 body.vista-tabellone { overflow: hidden; background: #0d1a2a; }
 body.vista-tabellone > header.top, body.vista-tabellone > #main { display: none; }
+
+/* Pagina delle carrozzerie (2026-11-11, proposta C scelta dal titolare): colonna blu notte a sinistra con chi è entrato e gli
+   strumenti; a destra le carrozzerie, in gruppi (gli stessi del Gestore), da spostare trascinandole. Il menu dell'account
+   in alto a destra qui non serve: nome, ruolo ed Esci stanno nella colonna. */
+#landing.elenco { display: block; padding: 0; }
+#landing.elenco #conto { display: none; }
+#landing .lpag { display: flex; flex-wrap: wrap; min-height: 100%; }
+#landing .lside { flex: 0 0 300px; box-sizing: border-box; position: sticky; top: 0; height: 100vh; overflow-y: auto; display: flex; flex-direction: column; gap: 26px; padding: 32px 24px; background: var(--navy); color: #fff; }
+#landing .lside-tit h1 { margin: 0; font: 700 22px/1.2 var(--f, system-ui); color: #fff; }
+#landing .lside-tit p { margin: 8px 0 0; font-size: 14px; line-height: 1.5; color: #d9dde1; }
+#landing .lside-chi { display: flex; align-items: center; gap: 12px; padding: 14px; border-radius: 12px; background: #ffffff14; }
+#landing .lside-chi .conto-ini { background: #fff; color: var(--navy); }
+#landing .lside-chi > span:last-child { display: grid; gap: 2px; min-width: 0; }
+#landing .lside-chi b { font: 700 15px var(--f, system-ui); overflow: hidden; text-overflow: ellipsis; white-space: nowrap; }
+#landing .lside-chi b + span { font-size: 13px; color: #d9dde1; }
+#landing .lside-nav { display: grid; gap: 4px; }
+/* il Gestore in evidenza (proposta F, 2026-11-11): riquadro bianco con icona, titolo, spiegazione e freccia arancione */
+#landing .lges { display: grid; grid-template-columns: 40px 1fr 18px; align-items: center; gap: 2px 12px; width: 100%; padding: 14px; border: 0; border-radius: 12px; background: var(--surface); color: var(--ink); text-align: left; cursor: pointer; box-shadow: 0 6px 18px #00000030; }
+#landing .lges:hover { background: var(--tape-soft); }
+#landing .lges:focus-visible { outline: 3px solid var(--tape-chiaro); outline-offset: 3px; }
+#landing .lges-i { grid-row: span 2; width: 40px; height: 40px; display: flex; align-items: center; justify-content: center; border-radius: 9px; background: var(--navy); color: #fff; }
+#landing .lges b { font: 700 17px var(--f, system-ui); }
+#landing .lges-f { grid-row: span 2; color: var(--tape); }
+#landing .lges-s { font-size: 13px; line-height: 1.35; color: var(--muted); }
+#landing .lside .lstr { justify-content: flex-start; gap: 12px; width: 100%; min-width: 0; height: 44px; padding: 0 12px; border: 0; border-radius: 8px; background: transparent; color: #fff; font: 500 15px var(--f, system-ui); text-align: left; }
+#landing .lside .lstr:hover { background: #ffffff17; }
+#landing .lside .lstr[aria-expanded="true"] { background: #ffffff24; }
+#landing .lside-nota { margin: auto 0 0; font-size: 13px; line-height: 1.5; color: #d9dde1; }
+#landing .lmain { flex: 999 1 560px; min-width: 0; max-width: 1240px; box-sizing: border-box; padding: 36px 40px 56px; display: grid; gap: 18px; align-content: start; container-type: inline-size; }
+#landing .lmain .lbar .ltit { font-size: 22px; }
+#landing .lconta { font-size: 13px; font-weight: 400; color: var(--muted); }
+#landing .lnuovo { height: 38px; padding: 0 16px; border: 1px solid var(--navy); border-radius: 7px; background: var(--surface); color: var(--navy); font: 600 13px var(--f, system-ui); cursor: pointer; }
+#landing .lnuovo:hover { background: color-mix(in srgb, var(--navy) 7%, var(--surface)); }
+#landing .lnuovo:focus-visible, #landing .lmaniglia:focus-visible, #landing .lgh button:focus-visible { outline: 3px solid var(--tape-chiaro); outline-offset: 2px; }
+#landing .lnasc { position: absolute; width: 1px; height: 1px; overflow: hidden; clip: rect(0 0 0 0); white-space: nowrap; margin: 0; }
+/* un gruppo è una zona grigio-azzurra (niente bordo: le schede bianche ci stanno dentro) */
+#landing .lgruppo { display: grid; gap: 12px; padding: 12px 14px 14px; border-radius: 14px; background: var(--grid); transition: box-shadow .12s; }
+#landing .lgruppo.sciolte:not(:has(.lgh)) { padding: 0; background: none; }
+#landing .lgh { display: flex; flex-wrap: wrap; align-items: center; gap: 6px 10px; min-height: 36px; }
+#landing .lgh[draggable="true"] { cursor: grab; }
+#landing .lgh h3 { margin: 0; padding: 7px 14px; border-radius: 7px; background: var(--navy); color: #fff; font: 700 15px/1.2 var(--f, system-ui); }
+/* «Senza gruppo» non è un gruppo creato: etichetta solo bordata */
+#landing .sciolte .lgh h3 { padding: 6px 13px; border: 1px solid var(--navy); background: none; color: var(--navy); }
+#landing .lgaz { margin-left: auto; display: flex; gap: 6px; }
+#landing .lgh button:not(.lmaniglia) { height: 32px; padding: 0 12px; border: 1px solid var(--line); border-radius: 6px; background: var(--surface); color: var(--ink); font: 500 13px var(--f, system-ui); cursor: pointer; }
+#landing .lgh button:not(.lmaniglia):hover { border-color: var(--grid-strong); }
+#landing .lgh button.del { color: var(--bad); }
+#landing .lgh button.pri { background: var(--navy); border-color: var(--navy); color: #fff; }
+#landing .lmaniglia { width: 32px; height: 32px; display: flex; align-items: center; justify-content: center; border: 0; border-radius: 7px; background: transparent; color: var(--muted); cursor: grab; }
+#landing .lmaniglia:hover { background: var(--surface); color: var(--ink); }
+#landing .lgh.editing input { flex: 1 1 220px; max-width: 360px; height: 36px; box-sizing: border-box; border: 1px solid var(--tape-chiaro); border-radius: 6px; padding: 0 10px; background: var(--surface); color: var(--ink); font: 600 15px var(--f, system-ui); }
+#landing .lgh.editing input:focus { outline: none; box-shadow: 0 0 0 3px color-mix(in srgb, var(--tape-chiaro) 22%, transparent); }
+/* quattro schede per riga (2026-11-11), meno quando lo spazio non basta */
+#landing .lmain .lgrid { grid-template-columns: repeat(4, minmax(0, 1fr)); border-radius: 10px; }
+@container (max-width: 900px) { #landing .lmain .lgrid { grid-template-columns: repeat(3, minmax(0, 1fr)); } }
+@container (max-width: 680px) { #landing .lmain .lgrid { grid-template-columns: repeat(2, minmax(0, 1fr)); } }
+@container (max-width: 440px) { #landing .lmain .lgrid { grid-template-columns: minmax(0, 1fr); } }
+#landing .lvuoto { grid-column: 1 / -1; margin: 0; min-height: 64px; display: flex; align-items: center; justify-content: center; padding: 0 12px; border: 1.5px dashed var(--grid-strong); border-radius: 10px; color: var(--muted); font-size: 13px; text-align: center; }
+/* scheda: iniziali in un quadratino, nome e ruolo accanto */
+#landing .lpag .lopen { flex-direction: row; align-items: center; justify-content: flex-start; gap: 10px; min-height: 76px; padding: 14px 44px 14px 12px !important; overflow-wrap: break-word; }
+#landing .lsigla { width: 40px; height: 40px; flex: none; display: flex; align-items: center; justify-content: center; border-radius: 9px; background: var(--grid); color: var(--navy); font: 700 15px var(--f, system-ui); }
+#landing .last .lsigla { background: var(--navy); color: #fff; }
+#landing .ltesto { display: grid; gap: 2px; min-width: 0; }
+#landing .lpag .lgear { top: 20px; }
+#landing .lpag .ladd { min-height: 76px; }
+/* trascinamento: la scheda presa si attenua; una riga arancione dice dove cade */
+#landing .presa { opacity: .45; }
+#landing .lcardi.drop-prima::before, #landing .lcardi.drop-dopo::after { content: ""; position: absolute; top: 6px; bottom: 6px; width: 4px; border-radius: 2px; background: var(--tape-chiaro); }
+#landing .lcardi.drop-prima::before { left: -9px; }
+#landing .lcardi.drop-dopo::after { right: -9px; }
+#landing .lgrid.drop-dentro { outline: 2px dashed var(--tape-chiaro); outline-offset: 4px; background: var(--tape-soft); }
+#landing .lgruppo.drop-sopra { box-shadow: 0 -4px 0 0 var(--tape-chiaro); }
+#landing .lgruppo.drop-sotto { box-shadow: 0 4px 0 0 var(--tape-chiaro); }
+#landing .lgone h3 { margin: 0 0 4px; font: 700 15px var(--f, system-ui); }
+#landing .lgone h3:focus { outline: none; }
+@media (max-width: 900px) {
+  #landing .lside { flex-basis: 100%; position: static; height: auto; gap: 16px; padding: 20px 16px; }
+  #landing .lside-nav { grid-template-columns: repeat(auto-fill, minmax(180px, 1fr)); }
+  #landing .lside-nota { display: none; }
+  #landing .lmain { padding: 20px 16px 40px; }
+}
+@media (prefers-reduced-motion: reduce) { #landing .lgruppo { transition: none; } }
